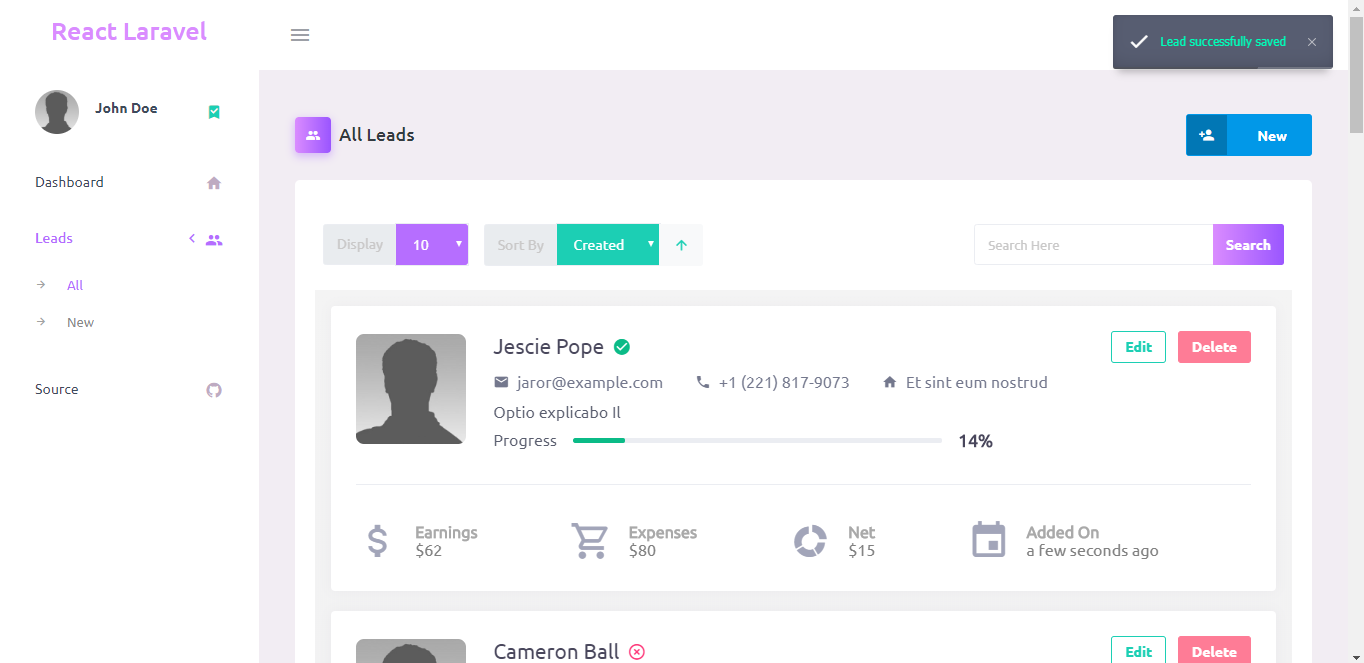
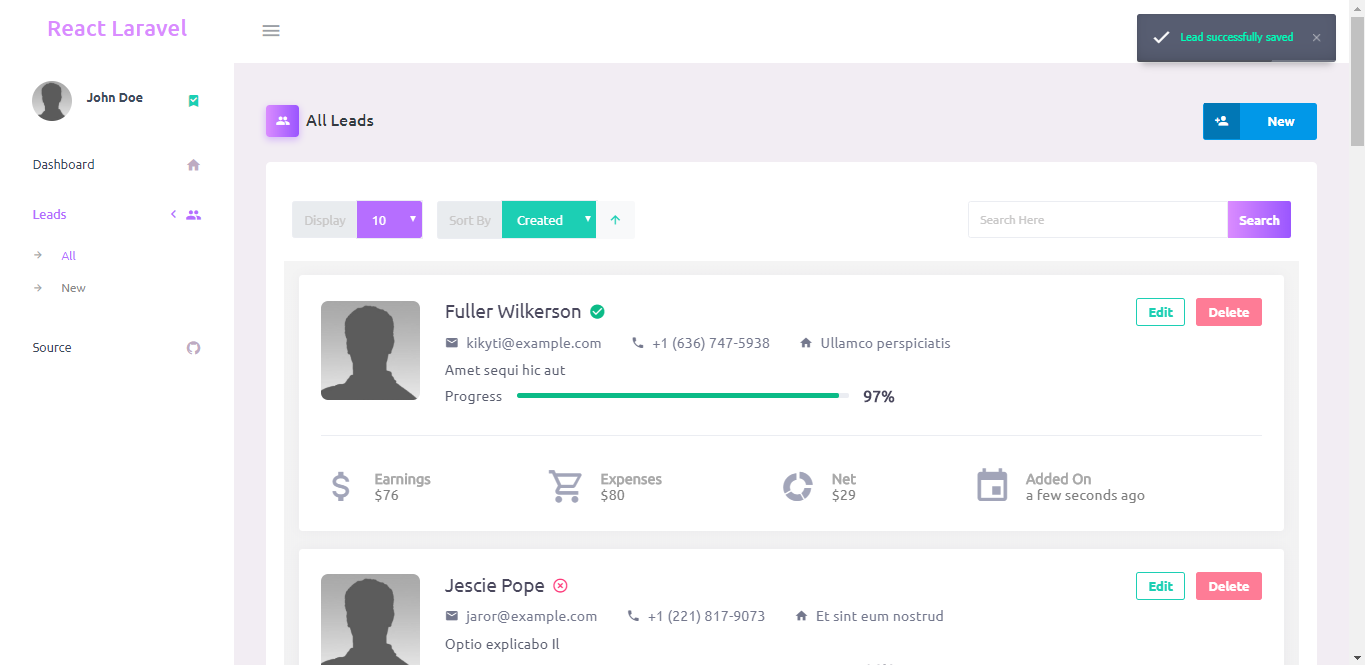
custom style

diff --git a/public/assets/css/style.css b/public/assets/css/style.css
@@ -1799,7 +1799,8 @@ body {
   line-height: 1.5;
   color: #343a40;
   text-align: left;
-  background-color: #fff; }
+  background-color: #fff; 
+  zoom: 90%;}
 
 [tabindex="-1"]:focus {
   outline: 0 !important; }

diff --git a/resources/views/user/login.blade.php b/resources/views/user/login.blade.php
@@ -18,6 +18,11 @@
     <link rel="stylesheet" href="{{asset('assets/css/style.css')}}">
     <!-- End layout styles -->
     <link rel="shortcut icon" href="{{asset('assets/images/favicon.ico')}}" />
+    <style>
+      body {
+        zoom: 100%;
+      }
+    </style>
   </head>
   <body>
     <div id="app"></div>
